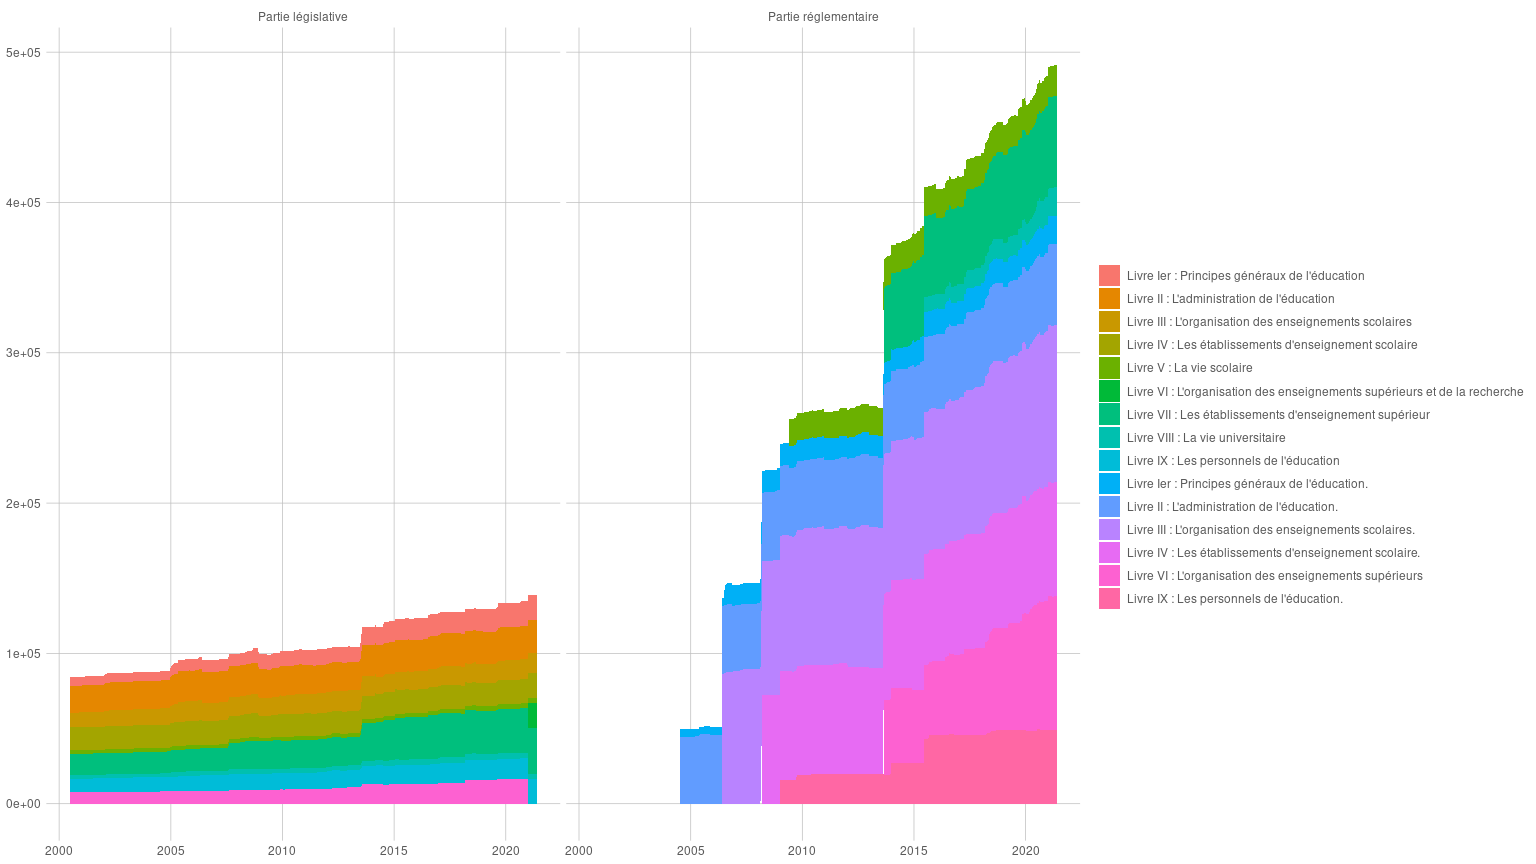
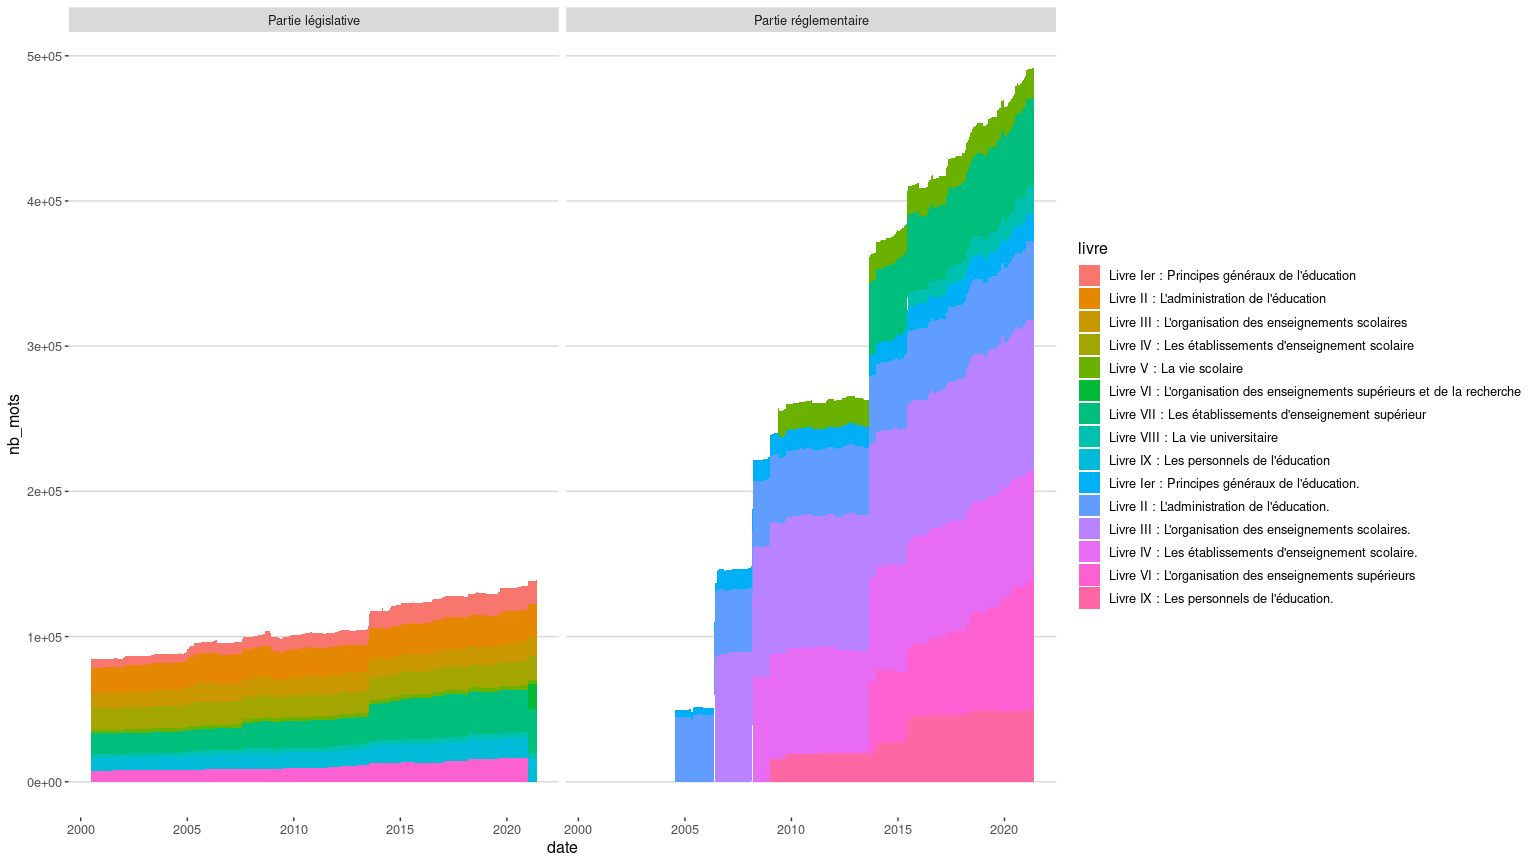
Ajout de nouvelles visualisation

diff --git a/legiplot_stats.md b/legiplot_stats.md
@@ -24,7 +24,7 @@ stats.det %>%
   ggplot(aes(x=date,y=nb_mots,fill=livre)) +
   geom_area(aes(group=livre)) +
   facet_grid(.~partie)  +
-  theme_excel_new() + 
+  theme_hc() + 
   theme(legend.position = "right")
 ```
 
@@ -45,7 +45,7 @@ stats.det %>%
   ggplot(aes(x=date,y=nb_mots,fill=livre)) +
   geom_area(aes(group=livre)) +
   facet_grid(.~partie)  +
-  theme_excel_new() + 
+  theme_hc() + 
   theme(legend.position = "right")
 ```
 
@@ -68,7 +68,7 @@ stats.det %>%
   ggplot(aes(x=date,y=nb_mots,fill=livre)) +
   geom_area(aes(group=livre)) +
   facet_grid(.~partie)  +
-  theme_excel_new() + 
+  theme_hc() + 
   theme(legend.position = "right")
 ```
 
